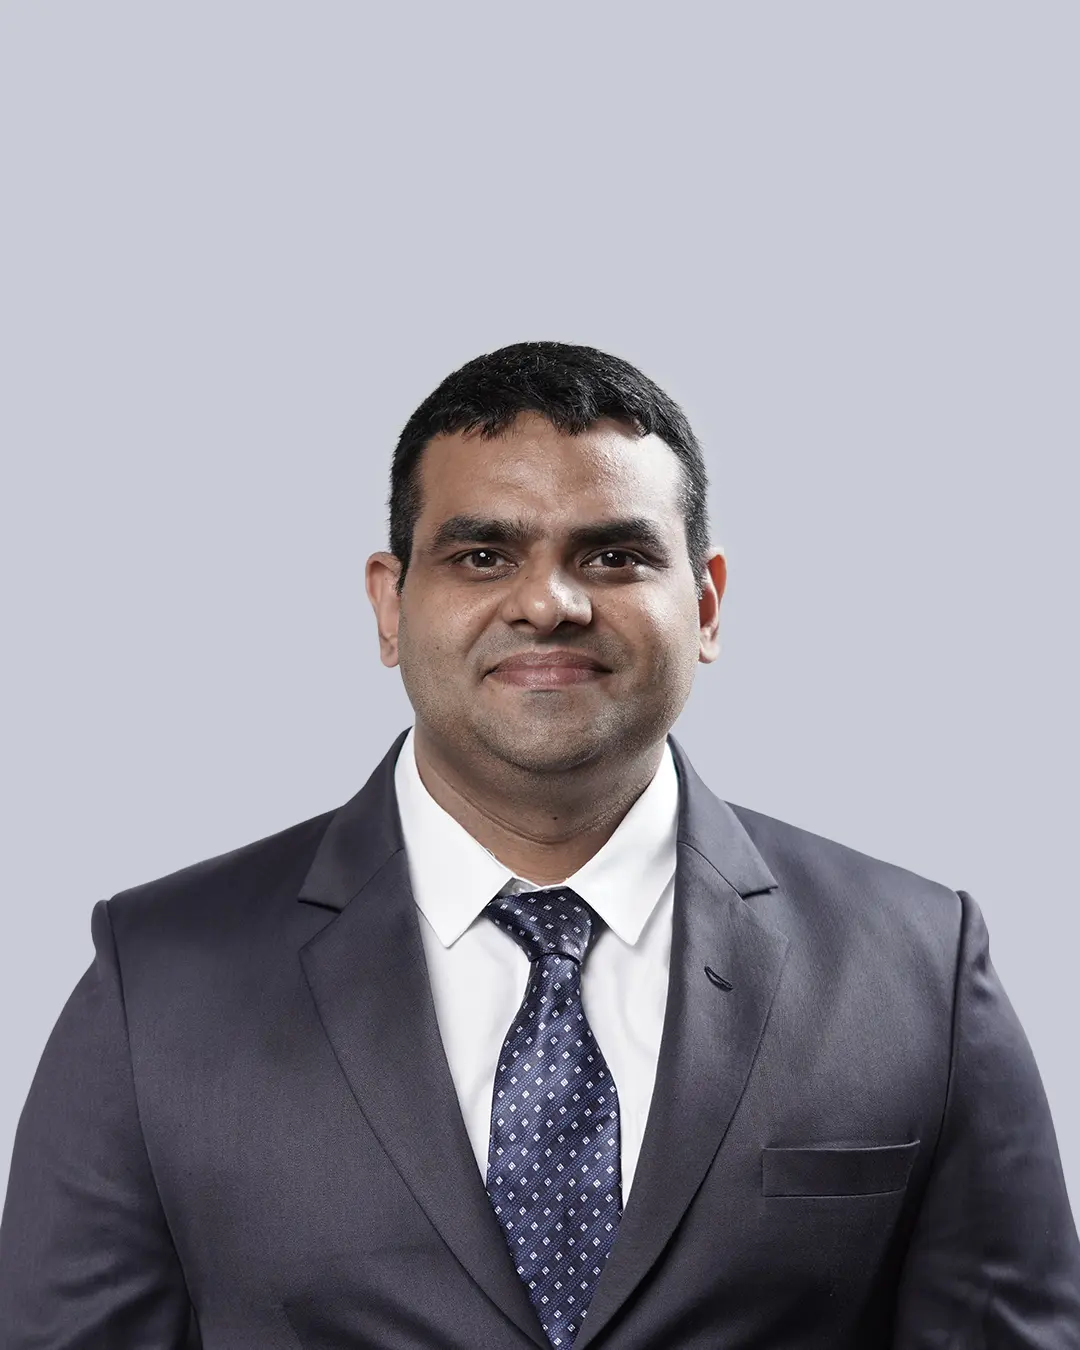
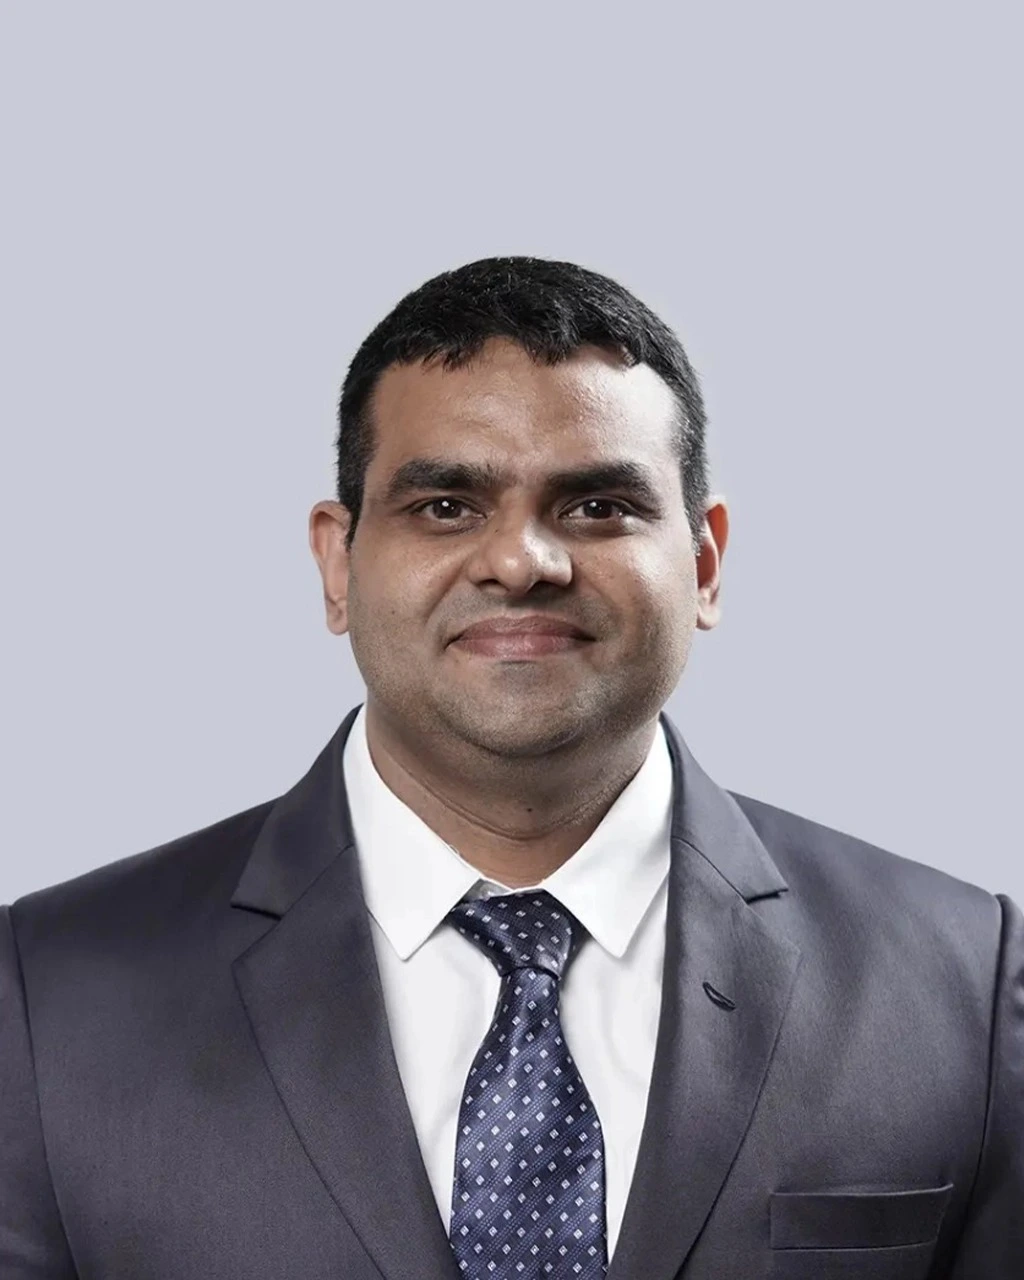
updations

diff --git a/src/components/Common/ExploreCampus/ExploreCampus.tsx b/src/components/Common/ExploreCampus/ExploreCampus.tsx
@@ -4,7 +4,7 @@ import React, { useState, useRef, useEffect, createContext } from "react";
 import { MdKeyboardArrowRight } from "react-icons/md";
 import { IconX } from "@tabler/icons-react";
 import { AnimatePresence, motion } from "framer-motion";
-import { useOutsideClick } from "@/hooks/use-outside-click"; 
+import { useOutsideClick } from "@/hooks/use-outside-click";
 import { parse } from "node-html-parser";
 
 interface CampusEvent {
@@ -65,9 +65,6 @@ const contentVariants = {
   visible: { opacity: 1, y: 0, transition: { duration: 0.3, delay: 0.1 } },
 };
 
-
-
-
 const dummyStudentAchievements: CampusEvent[] = [
   {
     id: 1,
@@ -96,7 +93,7 @@ const dummyStudentAchievements: CampusEvent[] = [
       <img src="/mediaPageImages/VTU - Rank Holders.jpeg" />
     `,
   },
-   {
+  {
     id: 4,
     category: "Student Achievement",
     eventDate: "",
@@ -105,7 +102,7 @@ const dummyStudentAchievements: CampusEvent[] = [
       <img src="/mediaPageImages/Ui path Student Developer.jpeg" alt="Team CEC Robotics" />
     `,
   },
-   {
+  {
     id: 5,
     category: "Student Achievement",
     eventDate: "",
@@ -147,7 +144,8 @@ const parseEventContent = (html: string) => {
   const src = firstImageEl?.getAttribute("src") || "";
   if (firstImageEl) firstImageEl.remove();
 
-  let remainingHTML = root.toString()
+  let remainingHTML = root
+    .toString()
     .replace(/\n|\r/g, "")
     .replace(/>\s+</g, "><")
     .replace(/<[^/>]+>\s*<\/[^>]+>/g, "")
@@ -166,30 +164,26 @@ function EventContent({ description }: { description: EventDescriptionProps }) {
           loading="lazy"
           width={1000}
           height={700}
-          className="object-cover overflow-hidden rounded-t-2xl w-full lg:h-[500px] h-[400px] mb-10"
+          className="object-cover overflow-hidden rounded-t-2xl w-full h-full mb-10"
         />
       )}
       <div className="p-4 lg:px-20 space-y-10 text-left text-sm text-black bg-white">
         <div>
-         {description.date&& <p className="text-[17px] text-textGray uppercase font-bold mb-4">{new Date(description.date).toLocaleDateString("en-GB")}</p>}
-          {description.topTitle&&<h3 className="text-[27px] font-semibold font-sans text-black mb-2 line-clamp-2">{description.topTitle}</h3>}
-          {description.topDescription&&<p className="text-xl text-textGray">{description.topDescription}</p>}
+          {description.date && (
+            <p className="text-[17px] text-textGray uppercase font-bold ">{new Date(description.date).toLocaleDateString("en-GB")}</p>
+          )}
+          {description.topTitle && <h3 className="text-[27px] font-semibold font-sans text-black my-3 line-clamp-2">{description.topTitle}</h3>}
+          {description.topDescription && <p className="text-xl text-textGray">{description.topDescription}</p>}
         </div>
-{description.remainingHTML && (
-  <div
-    className="bg-white"
-    dangerouslySetInnerHTML={{ __html: description.remainingHTML }}
-  />
-)}      </div>
+        {description.remainingHTML && <div className={`bg-white ${description.topDescription&&description.topTitle&&description.src&&"-mt-20"} ${description.topDescription&&"-mt-10"} ${description.topTitle&&"-mt-10"}   `} dangerouslySetInnerHTML={{ __html: description.remainingHTML }} />}{" "}
+      </div>
     </div>
   );
 }
 
 const ExploreCampus: React.FC<ExploreCampusProps> = ({ campusEvents: initialEvents = [], title, description }) => {
   const [campusEvents, setCampusEvents] = useState<CampusEvent[]>(initialEvents);
-const categories: string[] = Array.from(
-  new Set(campusEvents.map(event => event.category))
-);
+  const categories: string[] = Array.from(new Set(campusEvents.map((event) => event.category)));
   const [activeCategory, setActiveCategory] = useState<string>("Student Achievement");
   const [isOpen, setIsOpen] = useState(false);
   const [currentIndex, setCurrentIndex] = useState(0);
@@ -201,7 +195,7 @@ const categories: string[] = Array.from(
       const res = await fetch(`${process.env.NEXT_PUBLIC_API_URL}/buzz`);
       if (!res.ok) throw new Error("Failed to fetch buzz");
       const data = await res.json();
-     setCampusEvents(prev => [...dummyStudentAchievements, ...data]);
+      setCampusEvents((prev) => [...dummyStudentAchievements, ...data]);
     } catch (err) {
       console.error(err);
     }
@@ -214,7 +208,7 @@ const categories: string[] = Array.from(
   // Sort by date descending
   const sortedEvents = [...campusEvents].sort((a, b) => new Date(b.eventDate).getTime() - new Date(a.eventDate).getTime());
 
-  const filteredEvents = sortedEvents.filter(event => activeCategory === "All" ? true : event.category === activeCategory);
+  const filteredEvents = sortedEvents.filter((event) => (activeCategory === "All" ? true : event.category === activeCategory));
   const eventsToShow = showAll ? filteredEvents : filteredEvents.slice(0, 5);
 
   const handleCardClose = (index: number) => {
@@ -266,40 +260,41 @@ const categories: string[] = Array.from(
         )}
 
         {/* Category Filters */}
-     <div className="pb-5 lg:pb-10">
-  {/* Mobile Dropdown */}
-  <div className="flex lg:hidden justify-between items-center gap-2 md:hidden">
-
-
-    <select
-      value={activeCategory}
-      onChange={(e) => { setActiveCategory(e.target.value); setShowAll(false); }}
-      className="border rounded-xl px-3 py-2 text-base text-gray-700 focus:outline-none"
-    >
-   
-      {categories.map((category, index) => (
-        <option key={index} value={category}>
-          {category}
-        </option>
-      ))}
-    </select>
-  </div>
-
-  {/* Desktop View */}
-    <div className="hidden lg:flex justify-between items-center pb-5 lg:pb-10 flex-wrap gap-2">
-         
-          {categories.map((category, index) => (
-            <h3
-              onClick={() => { setActiveCategory(category); setShowAll(false); }}
-              className={`cursor-pointer ${category === activeCategory ? "text-black font-bold" : "text-textGray"} text-[18px]`}
-              key={index}
+        <div className="pb-5 lg:pb-10">
+          {/* Mobile Dropdown */}
+          <div className="flex lg:hidden justify-between items-center gap-2 md:hidden">
+            <select
+              value={activeCategory}
+              onChange={(e) => {
+                setActiveCategory(e.target.value);
+                setShowAll(false);
+              }}
+              className="border rounded-xl px-3 py-2 text-base text-gray-700 focus:outline-none"
             >
-              {category}
-            </h3>
-          ))}
-        </div>
-</div>
+              {categories.map((category, index) => (
+                <option key={index} value={category}>
+                  {category}
+                </option>
+              ))}
+            </select>
+          </div>
 
+          {/* Desktop View */}
+          <div className="hidden lg:flex justify-between items-center pb-5 lg:pb-10 flex-wrap gap-2">
+            {categories.map((category, index) => (
+              <h3
+                onClick={() => {
+                  setActiveCategory(category);
+                  setShowAll(false);
+                }}
+                className={`cursor-pointer ${category === activeCategory ? "text-black font-bold" : "text-textGray"} text-[18px]`}
+                key={index}
+              >
+                {category}
+              </h3>
+            ))}
+          </div>
+        </div>
 
         {/* Event Cards */}
         <div className="flex flex-col gap-8">
@@ -307,7 +302,11 @@ const categories: string[] = Array.from(
             eventsToShow.map((event, index) => {
               const { src, topTitle, topDescription } = parseEventContent(event.content);
               return (
-                <div key={event.id} onClick={() => openCard(index)} className="flex cursor-pointer flex-col md:flex-row items-center gap-6 bg-white rounded-2xl shadow-md">
+                <div
+                  key={event.id}
+                  onClick={() => openCard(index)}
+                  className="flex cursor-pointer flex-col md:flex-row items-center gap-6 bg-white rounded-2xl shadow-md"
+                >
                   <div className="flex-shrink-0 w-full md:w-[40%]">
                     <Image
                       src={src || event.content}
@@ -318,10 +317,12 @@ const categories: string[] = Array.from(
                     />
                   </div>
                   <div className="flex flex-col justify-center w-full md:w-1/2 p-6 lg:p-10">
-                    {event.eventDate&&<p className="text-[17px] text-textGray uppercase font-bold mb-4">{new Date(event.eventDate).toLocaleDateString("en-GB")}</p>}
-                    {event.eventName&&<p className="text-textGray text-[17px] mb-3">{event.eventName}</p>}
-                    {topTitle&&<h2 className="text-[31px] leading-[1.1] font-bold text-[#1D1D1F] mb-2">{topTitle}</h2>}
-                    {topDescription&&<p className="text-textGray leading-[1.3] line-clamp-3 text-[21px] mb-4">{topDescription}</p>}
+                    {event.eventDate && (
+                      <p className="text-[17px] text-textGray uppercase font-bold mb-4">{new Date(event.eventDate).toLocaleDateString("en-GB")}</p>
+                    )}
+                    {event.eventName && <p className="text-textGray text-[17px] mb-3">{event.eventName}</p>}
+                    {topTitle && <h2 className="text-[31px] leading-[1.1] font-bold text-[#1D1D1F] mb-2">{topTitle}</h2>}
+                    {topDescription && <p className="text-textGray leading-[1.3] line-clamp-3 text-[21px] mb-4">{topDescription}</p>}
                     <motion.button
                       onClick={() => openCard(index)}
                       className="text-primary inline-flex text-[21px] items-center font-medium text-sm"
@@ -342,10 +343,7 @@ const categories: string[] = Array.from(
         {/* Show More Button */}
         {!showAll && filteredEvents.length > 5 && (
           <div className="flex justify-center mt-10">
-            <button
-              className="bg-[#eff1f6] text-black px-5 py-2 cursor-pointer rounded-3xl"
-              onClick={() => setShowAll(true)}
-            >
+            <button className="bg-[#eff1f6] text-black px-5 py-2 cursor-pointer rounded-3xl" onClick={() => setShowAll(true)}>
               Explore More Campus Stories
             </button>
           </div>
@@ -374,11 +372,11 @@ const categories: string[] = Array.from(
                   <EventContent description={getEventDescription(filteredEvents[currentIndex])} />
                 </motion.div>
                 <motion.div variants={contentVariants} className="p-4 lg:px-20 ">
-                 <h1 className="border-t-2 pt-9 text-[10px] md:text-[12px] text-textGray border-t-gray-200"> {parseEventContent(filteredEvents[(currentIndex + 1) % filteredEvents.length].content).topTitle&&"Next Event"}</h1>
-                  <h1
-                    onClick={goToNextCard}
-                    className="text-primary inline-flex items-center cursor-pointer font-bold text-[16px] md:text-[20px]"
-                  >
+                  <h1 className="border-t-2 pt-9 text-[10px] md:text-[12px] text-textGray border-t-gray-200">
+                    {" "}
+                    {parseEventContent(filteredEvents[(currentIndex + 1) % filteredEvents.length].content).topTitle && "Next Event"}
+                  </h1>
+                  <h1 onClick={goToNextCard} className="text-primary inline-flex items-center cursor-pointer font-bold text-[16px] md:text-[20px]">
                     {parseEventContent(filteredEvents[(currentIndex + 1) % filteredEvents.length].content).topTitle || "Next Event"}
                     <MdKeyboardArrowRight className="ml-1 mt-1 text-[20px] md:text-[25px]" />
                   </h1>
@@ -393,3 +391,5 @@ const categories: string[] = Array.from(
 };
 
 export default ExploreCampus;
+
+

diff --git a/src/components/DepartmentComponents/DetailesPageComponents/DepartmentDetailesTab/Events/Events.tsx b/src/components/DepartmentComponents/DetailesPageComponents/DepartmentDetailesTab/Events/Events.tsx
@@ -3,6 +3,7 @@ import React, { useState, useRef, useEffect } from "react";
 import Image from "next/image";
 import { AnimatePresence, motion } from "framer-motion";
 import { IconX } from "@tabler/icons-react";
+import { useOutsideClick } from "@/hooks/use-outside-click";
 
 // 🔹 Modal animations
 const backdropVariants = {
@@ -38,6 +39,7 @@ const ExploreCampus = ({ departmentName,events }: { departmentName: string,event
   const [loading, setLoading] = useState(true);
   const [error, setError] = useState<string | null>(null);
   const modalRef = useRef<HTMLDivElement>(null);
+ 
 
   // 🔹 Fetch & Filter Events
 
@@ -56,6 +58,9 @@ const ExploreCampus = ({ departmentName,events }: { departmentName: string,event
     window.addEventListener("keydown", handleKeyDown);
     return () => window.removeEventListener("keydown", handleKeyDown);
   }, [selectedEvent]);
+
+
+  useOutsideClick(modalRef, () => { if (selectedEvent) closeModal() });
 
   return (
     <section className="py-10 px-4 text-[#1D1D1F]">
@@ -88,6 +93,7 @@ const ExploreCampus = ({ departmentName,events }: { departmentName: string,event
             variants={backdropVariants}
             initial="hidden"
             animate="visible"
+            
             exit="exit"
           >
             {/* Backdrop */}
